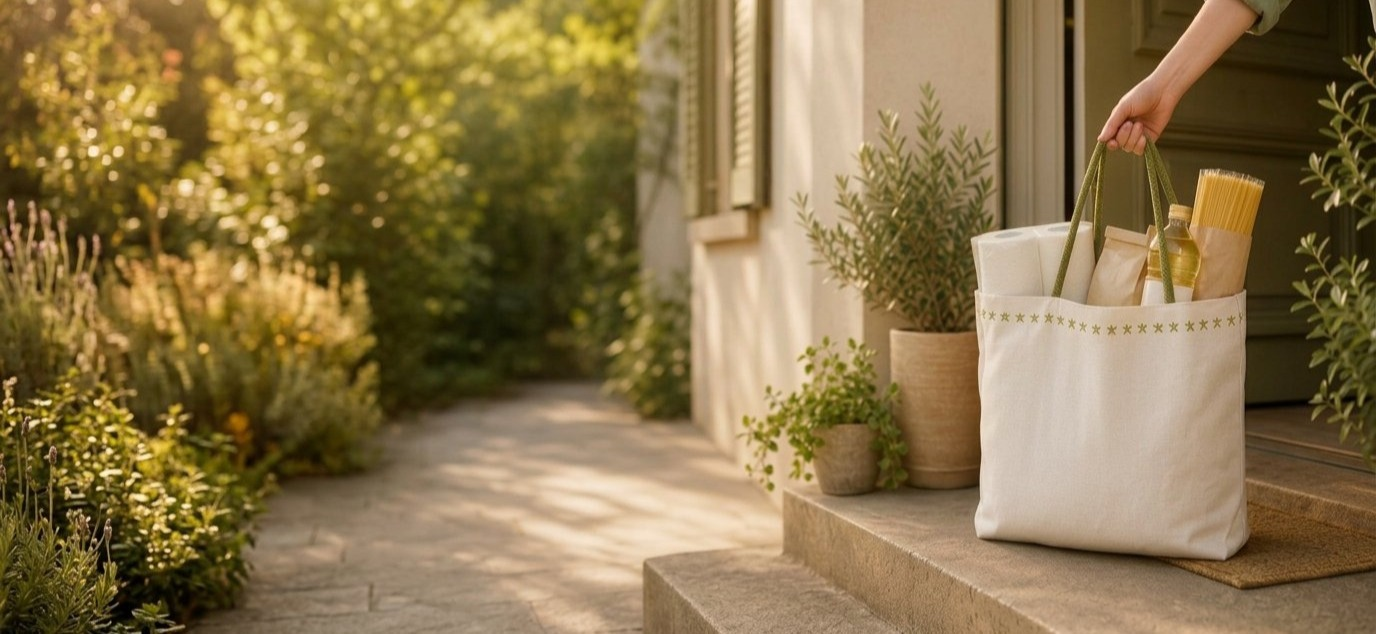
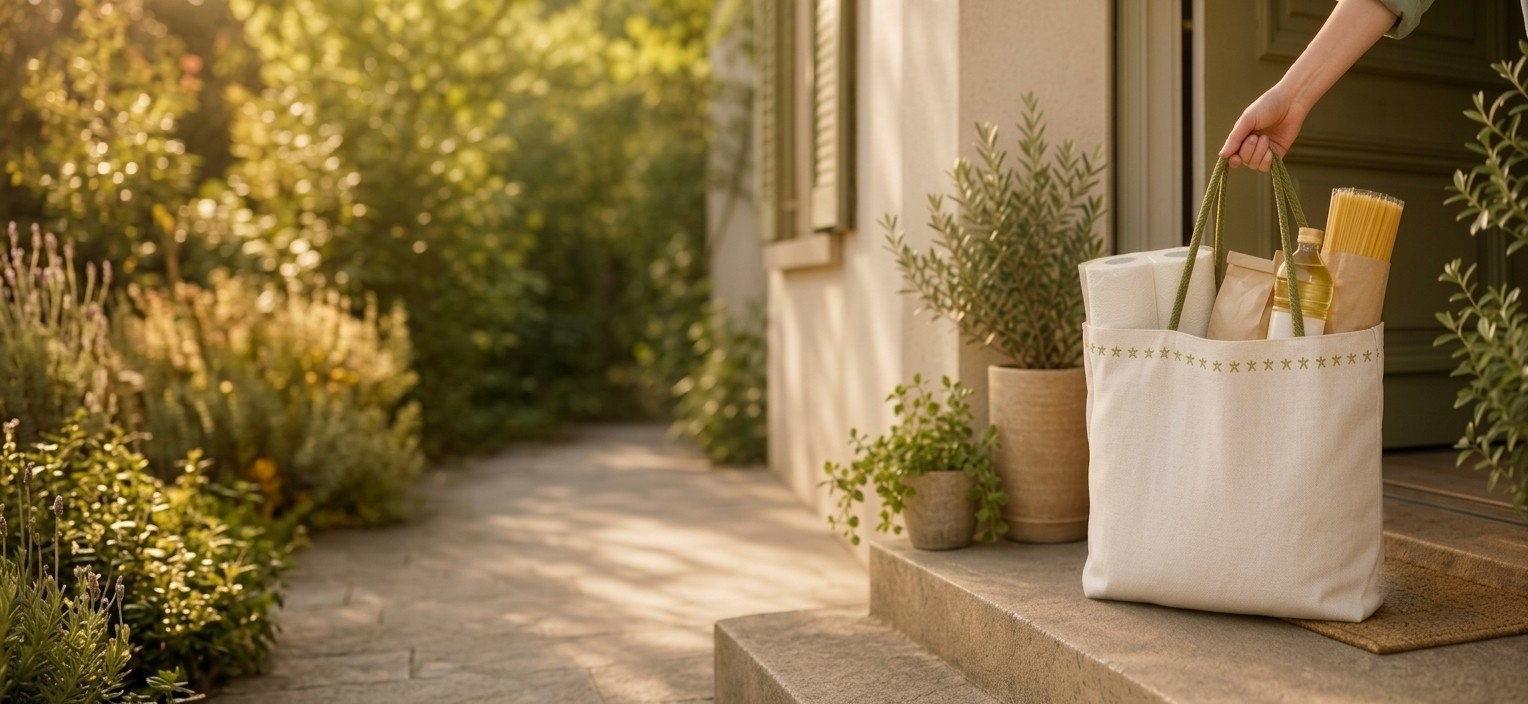
update textos hero

diff --git a/b2c/index.html b/b2c/index.html
@@ -16,7 +16,7 @@
 <link href="https://fonts.googleapis.com/css2?family=DM+Sans:ital,opsz,wght@0,9..40,300;0,9..40,400;0,9..40,500;0,9..40,600;0,9..40,700&family=Cabin:wght@400;500;600&display=swap" rel="stylesheet">
 <link rel="stylesheet" href="styles.css">
 </head>
-<body data-hero="promo">
+<body data-hero="estandar">
 <!-- ═ HERO ACTIVO ═
      Cambiá el atributo data-hero del <body> (arriba) a "promo" o
      "estandar" para elegir qué hero se muestra en la landing. El que no
@@ -120,13 +120,18 @@
     <img src="hero-promo.jpg" alt="" class="hero-promo-photo">
     <div class="hero-promo">
       <div class="hero-promo-inner">
-        <span class="hero-promo-badge">Solo por tiempo limitado</span>
-        <h1 class="hero-promo-titulo"><strong>10% OFF</strong><br>en tu primera compra</h1>
-        <p class="hero-promo-texto">Aprovechá esta semana de lanzamiento: 10% de descuento en todo el catálogo para nuevos clientes.</p>
+        <span class="hero-promo-badge">
+          <svg viewBox="0 0 24 24" fill="none" stroke="currentColor" stroke-width="2" stroke-linecap="round" stroke-linejoin="round"><path d="M5.8 11.3L2 22l10.7-3.79"/><path d="M4 3h.01"/><path d="M22 8h.01"/><path d="M15 2h.01"/><path d="M22 20h.01"/><path d="M22 2l-2.24.75a2.9 2.9 0 00-1.96 3.12v0c.1.86-.57 1.63-1.45 1.63h-.38c-.86 0-1.6.6-1.76 1.44L14 10"/><path d="M22 13.5V17a1 1 0 01-1 1h-3.5c-.83 0-1.5-.67-1.5-1.5 0-.28.22-.5.5-.5h3a1 1 0 001-1v-.5c0-.83.67-1.5 1.5-1.5H22z"/><path d="M9 3.5a3 3 0 013.5-2.95c1.4.24 2.35 1.53 2.35 2.95v.5A2.5 2.5 0 0112.35 6.5H12v-3H9z"/></svg>
+          Promoción de Bienvenida
+        </span>
+        <h1 class="hero-promo-titulo"><strong>10% de descuento</strong><br>y Envío Gratis</h1>
+        <p class="hero-promo-subtitulo">Para tu primer pedido</p>
+        <p class="hero-promo-texto">Queremos que conozcas Menos Vueltas. Probá el servicio con este descuento.</p>
         <div class="hero-promo-actions">
           <button class="btn-primary" onclick="mostrarCatalogo()">Ver catálogo</button>
           <button class="btn-ghost-dark" onclick="scrollLanding('como-comprar')">Como pedir</button>
         </div>
+        <p class="hero-promo-nota">Te descontamos el 10% sobre el total cuando nos enviés el pedido por WhatsApp.</p>
       </div>
     </div>
   </section>
@@ -638,5 +643,5 @@
 
 <script>window.CANAL = 'B2C';</script>
 <script src="app.js"></script>
-<script>(function(){function c(){var b=a.contentDocument||(a.contentWindow&&a.contentWindow.document);if(b){var d=b.createElement('script');d.innerHTML="window.__CF$cv$params={r:'a231bc867a94b522',t:'MTc4NTM4Njk2Mg=='};var a=document.createElement('script');a.src='/cdn-cgi/challenge-platform/scripts/jsd/main.js';document.getElementsByTagName('head')[0].appendChild(a);";b.getElementsByTagName('head')[0].appendChild(d)}}if(document.body){var a=document.createElement('iframe');a.height=1;a.width=1;a.style.position='absolute';a.style.top=0;a.style.left=0;a.style.border='none';a.style.visibility='hidden';document.body.appendChild(a);if('loading'!==document.readyState)c();else if(window.addEventListener)document.addEventListener('DOMContentLoaded',c);else{var e=document.onreadystatechange||function(){};document.onreadystatechange=function(b){e(b);'loading'!==document.readyState&&(document.onreadystatechange=e,c())}}}})();</script></body>
+<script>(function(){function c(){var b=a.contentDocument||(a.contentWindow&&a.contentWindow.document);if(b){var d=b.createElement('script');d.innerHTML="window.__CF$cv$params={r:'a236bbeffd1ee9ba',t:'MTc4NTQzOTM2Nw=='};var a=document.createElement('script');a.src='/cdn-cgi/challenge-platform/scripts/jsd/main.js';document.getElementsByTagName('head')[0].appendChild(a);";b.getElementsByTagName('head')[0].appendChild(d)}}if(document.body){var a=document.createElement('iframe');a.height=1;a.width=1;a.style.position='absolute';a.style.top=0;a.style.left=0;a.style.border='none';a.style.visibility='hidden';document.body.appendChild(a);if('loading'!==document.readyState)c();else if(window.addEventListener)document.addEventListener('DOMContentLoaded',c);else{var e=document.onreadystatechange||function(){};document.onreadystatechange=function(b){e(b);'loading'!==document.readyState&&(document.onreadystatechange=e,c())}}}})();</script></body>
 </html>

diff --git a/shared/styles.css b/shared/styles.css
@@ -547,7 +547,7 @@ body[data-hero="promo"]    .hero-bg       { display: none; }
 ══════════════════════════════════════════════════════ */
 .hero-promo-bg {
   position: relative;
-  aspect-ratio: 1376 / 703; /* debe coincidir con la proporción real de hero-promo.jpg */
+  aspect-ratio: 1528 / 704; /* debe coincidir con la proporción real de hero-promo.jpg */
   width: 100%;
   /* Tope de seguridad: en pantallas anchas y no muy altas (ej. monitores
      1920×1080) el aspect-ratio de la foto puede dar un hero apenas más
@@ -590,8 +590,8 @@ body[data-hero="promo"]    .hero-bg       { display: none; }
 
 .hero-promo-badge {
   display: inline-flex;
-  align-items: baseline;
-  gap: 6px;
+  align-items: center;
+  gap: 7px;
   background: rgba(255,255,255,.16);
   border: 1px solid rgba(255,255,255,.5);
   border-radius: var(--rf);
@@ -605,6 +605,11 @@ body[data-hero="promo"]    .hero-bg       { display: none; }
   text-transform: uppercase;
   backdrop-filter: blur(4px);
 }
+.hero-promo-badge svg {
+  width: 15px;
+  height: 15px;
+  flex-shrink: 0;
+}
 
 .hero-promo-titulo {
   font-size: clamp(2.1rem, 4.6vw, 3.2rem);
@@ -612,12 +617,20 @@ body[data-hero="promo"]    .hero-bg       { display: none; }
   line-height: 1.06;
   letter-spacing: -0.03em;
   color: white;
-  margin-bottom: var(--space-5);
+  margin-bottom: var(--space-3);
   text-shadow: 0 2px 20px rgba(0,0,0,.25);
 }
 .hero-promo-titulo strong {
   font: inherit;
   color: #D9E8C9;
+}
+
+.hero-promo-subtitulo {
+  font-family: var(--font-body);
+  font-size: 1.05rem;
+  font-weight: 500;
+  color: rgba(255,255,255,.95);
+  margin-bottom: var(--space-4);
 }
 
 .hero-promo-texto {
@@ -626,7 +639,16 @@ body[data-hero="promo"]    .hero-bg       { display: none; }
   color: rgba(255,255,255,.9);
   line-height: 1.6;
   max-width: 420px;
-  margin-bottom: var(--space-7);
+  margin-bottom: var(--space-6);
+}
+
+.hero-promo-nota {
+  font-family: var(--font-body);
+  font-size: 0.78rem;
+  color: rgba(255,255,255,.72);
+  line-height: 1.5;
+  max-width: 420px;
+  margin-top: var(--space-4);
 }
 
 .hero-promo-actions {
@@ -678,7 +700,7 @@ body[data-hero="promo"]    .hero-bg       { display: none; }
     align-items: flex-end;
   }
   .hero-promo-photo {
-    object-position: 90% center;
+    object-position: 85% center;
   }
   .hero-promo-bg::after {
     background: linear-gradient(180deg, rgba(20,28,18,.05) 0%, rgba(20,28,18,.15) 45%, rgba(20,28,18,.88) 100%);
